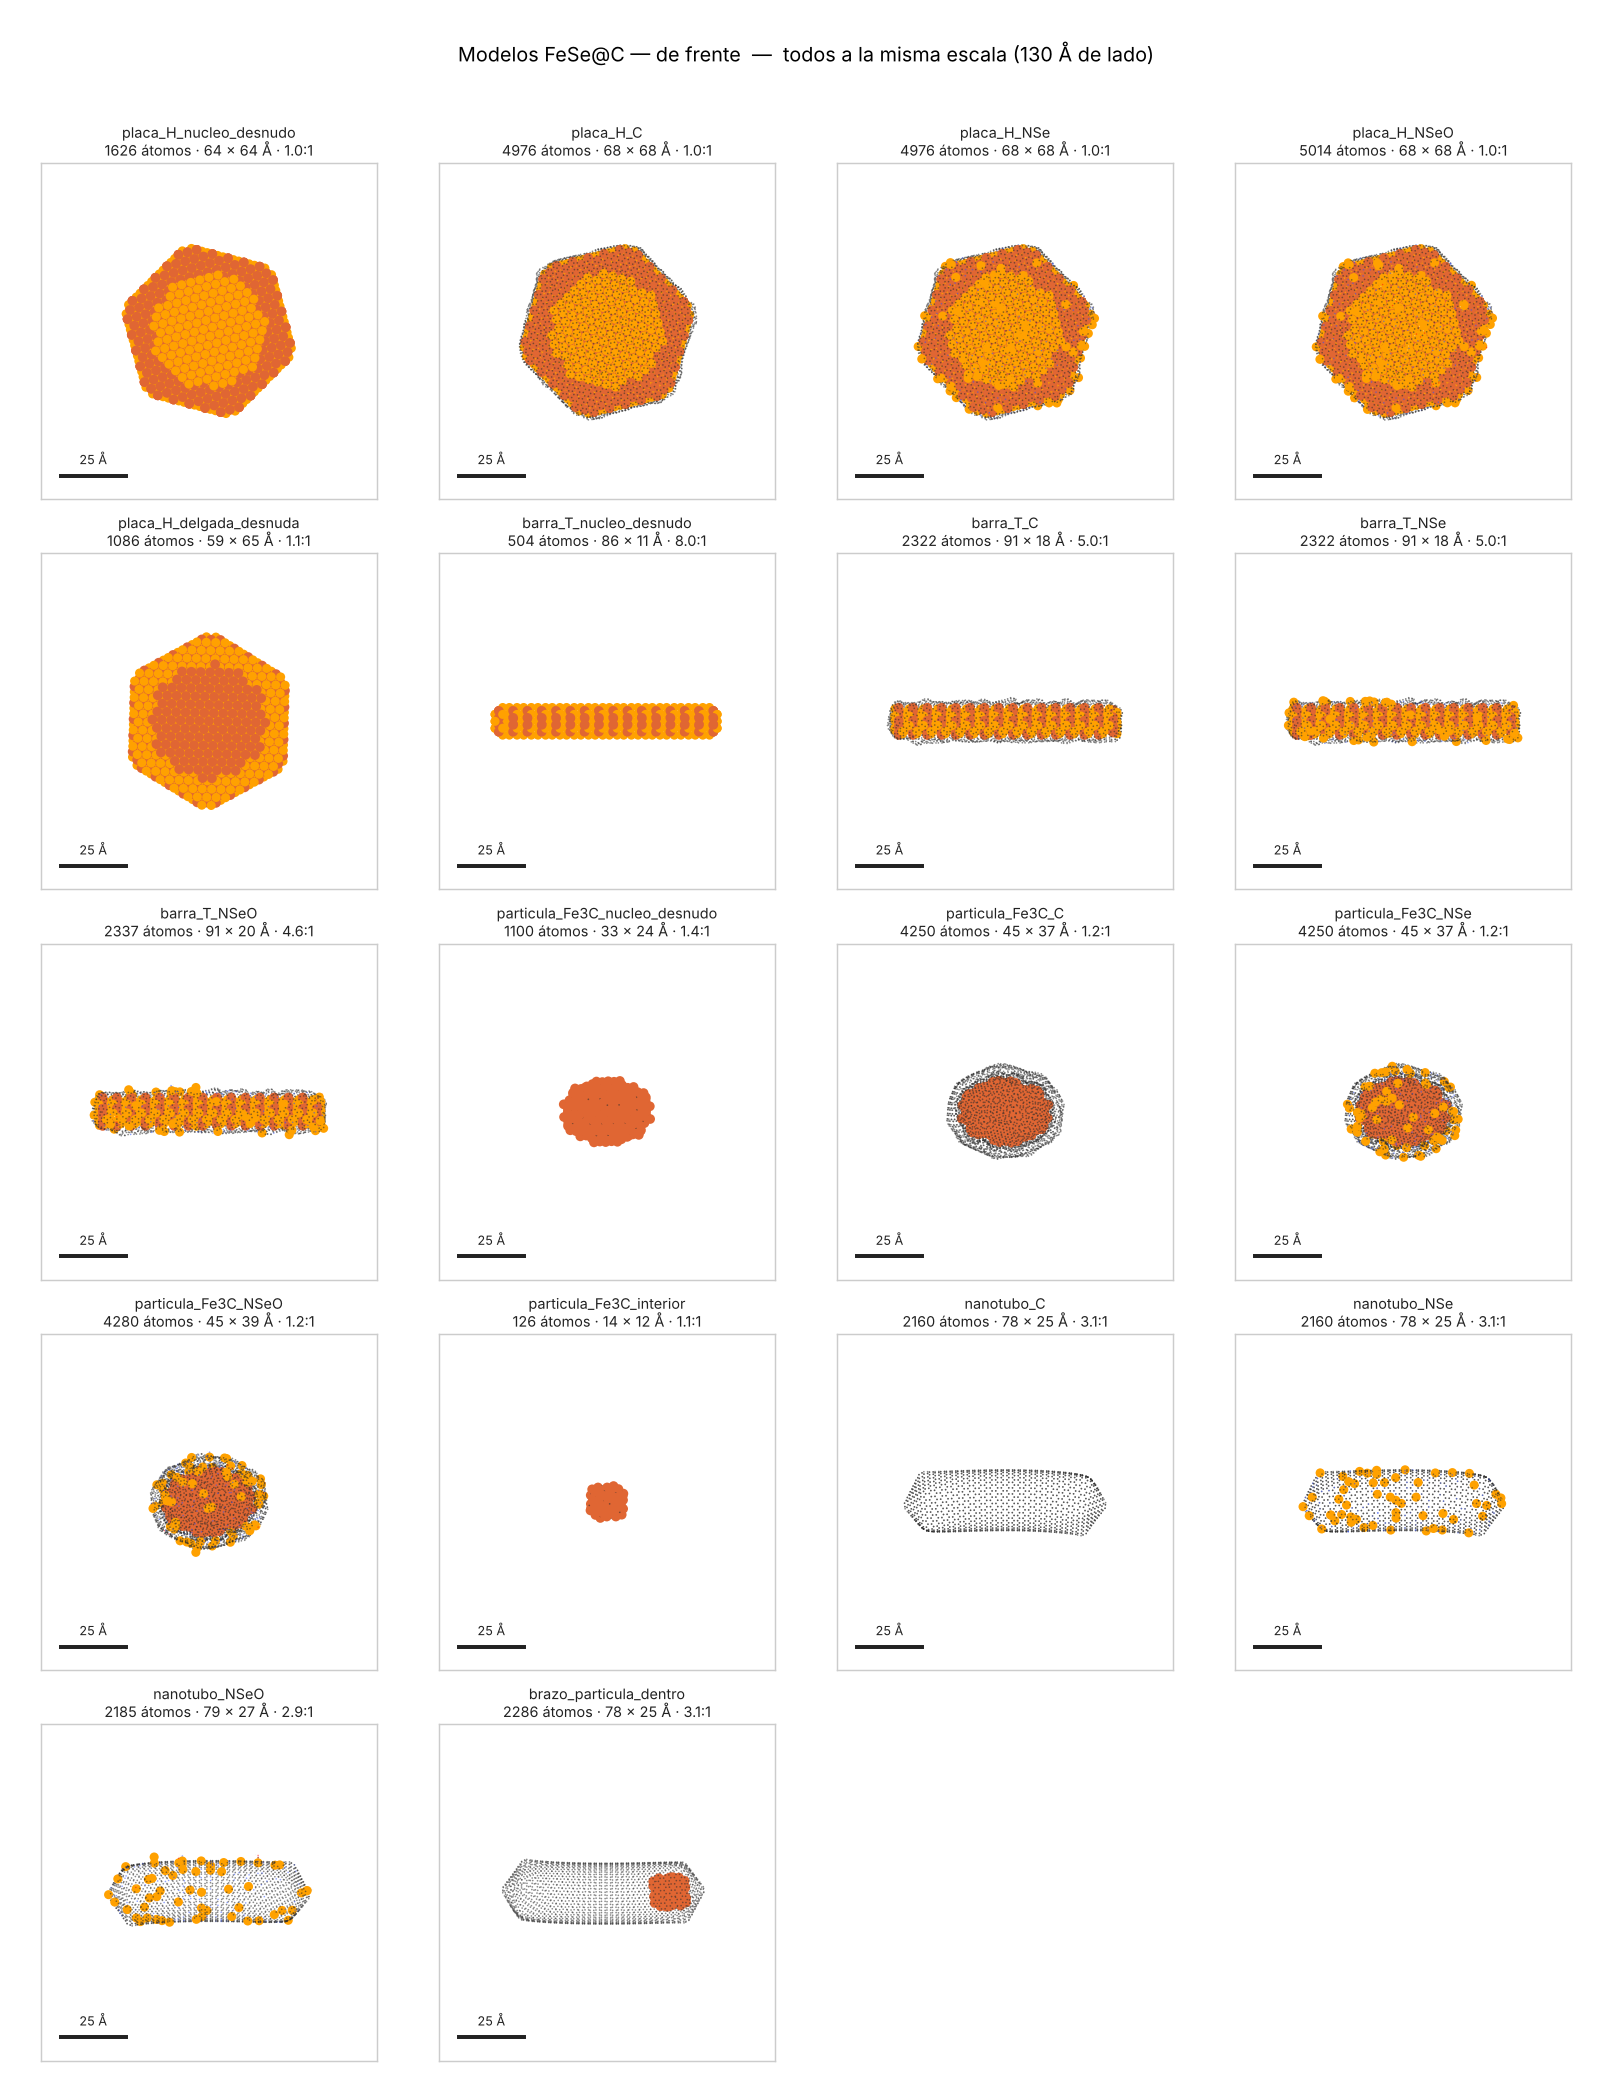
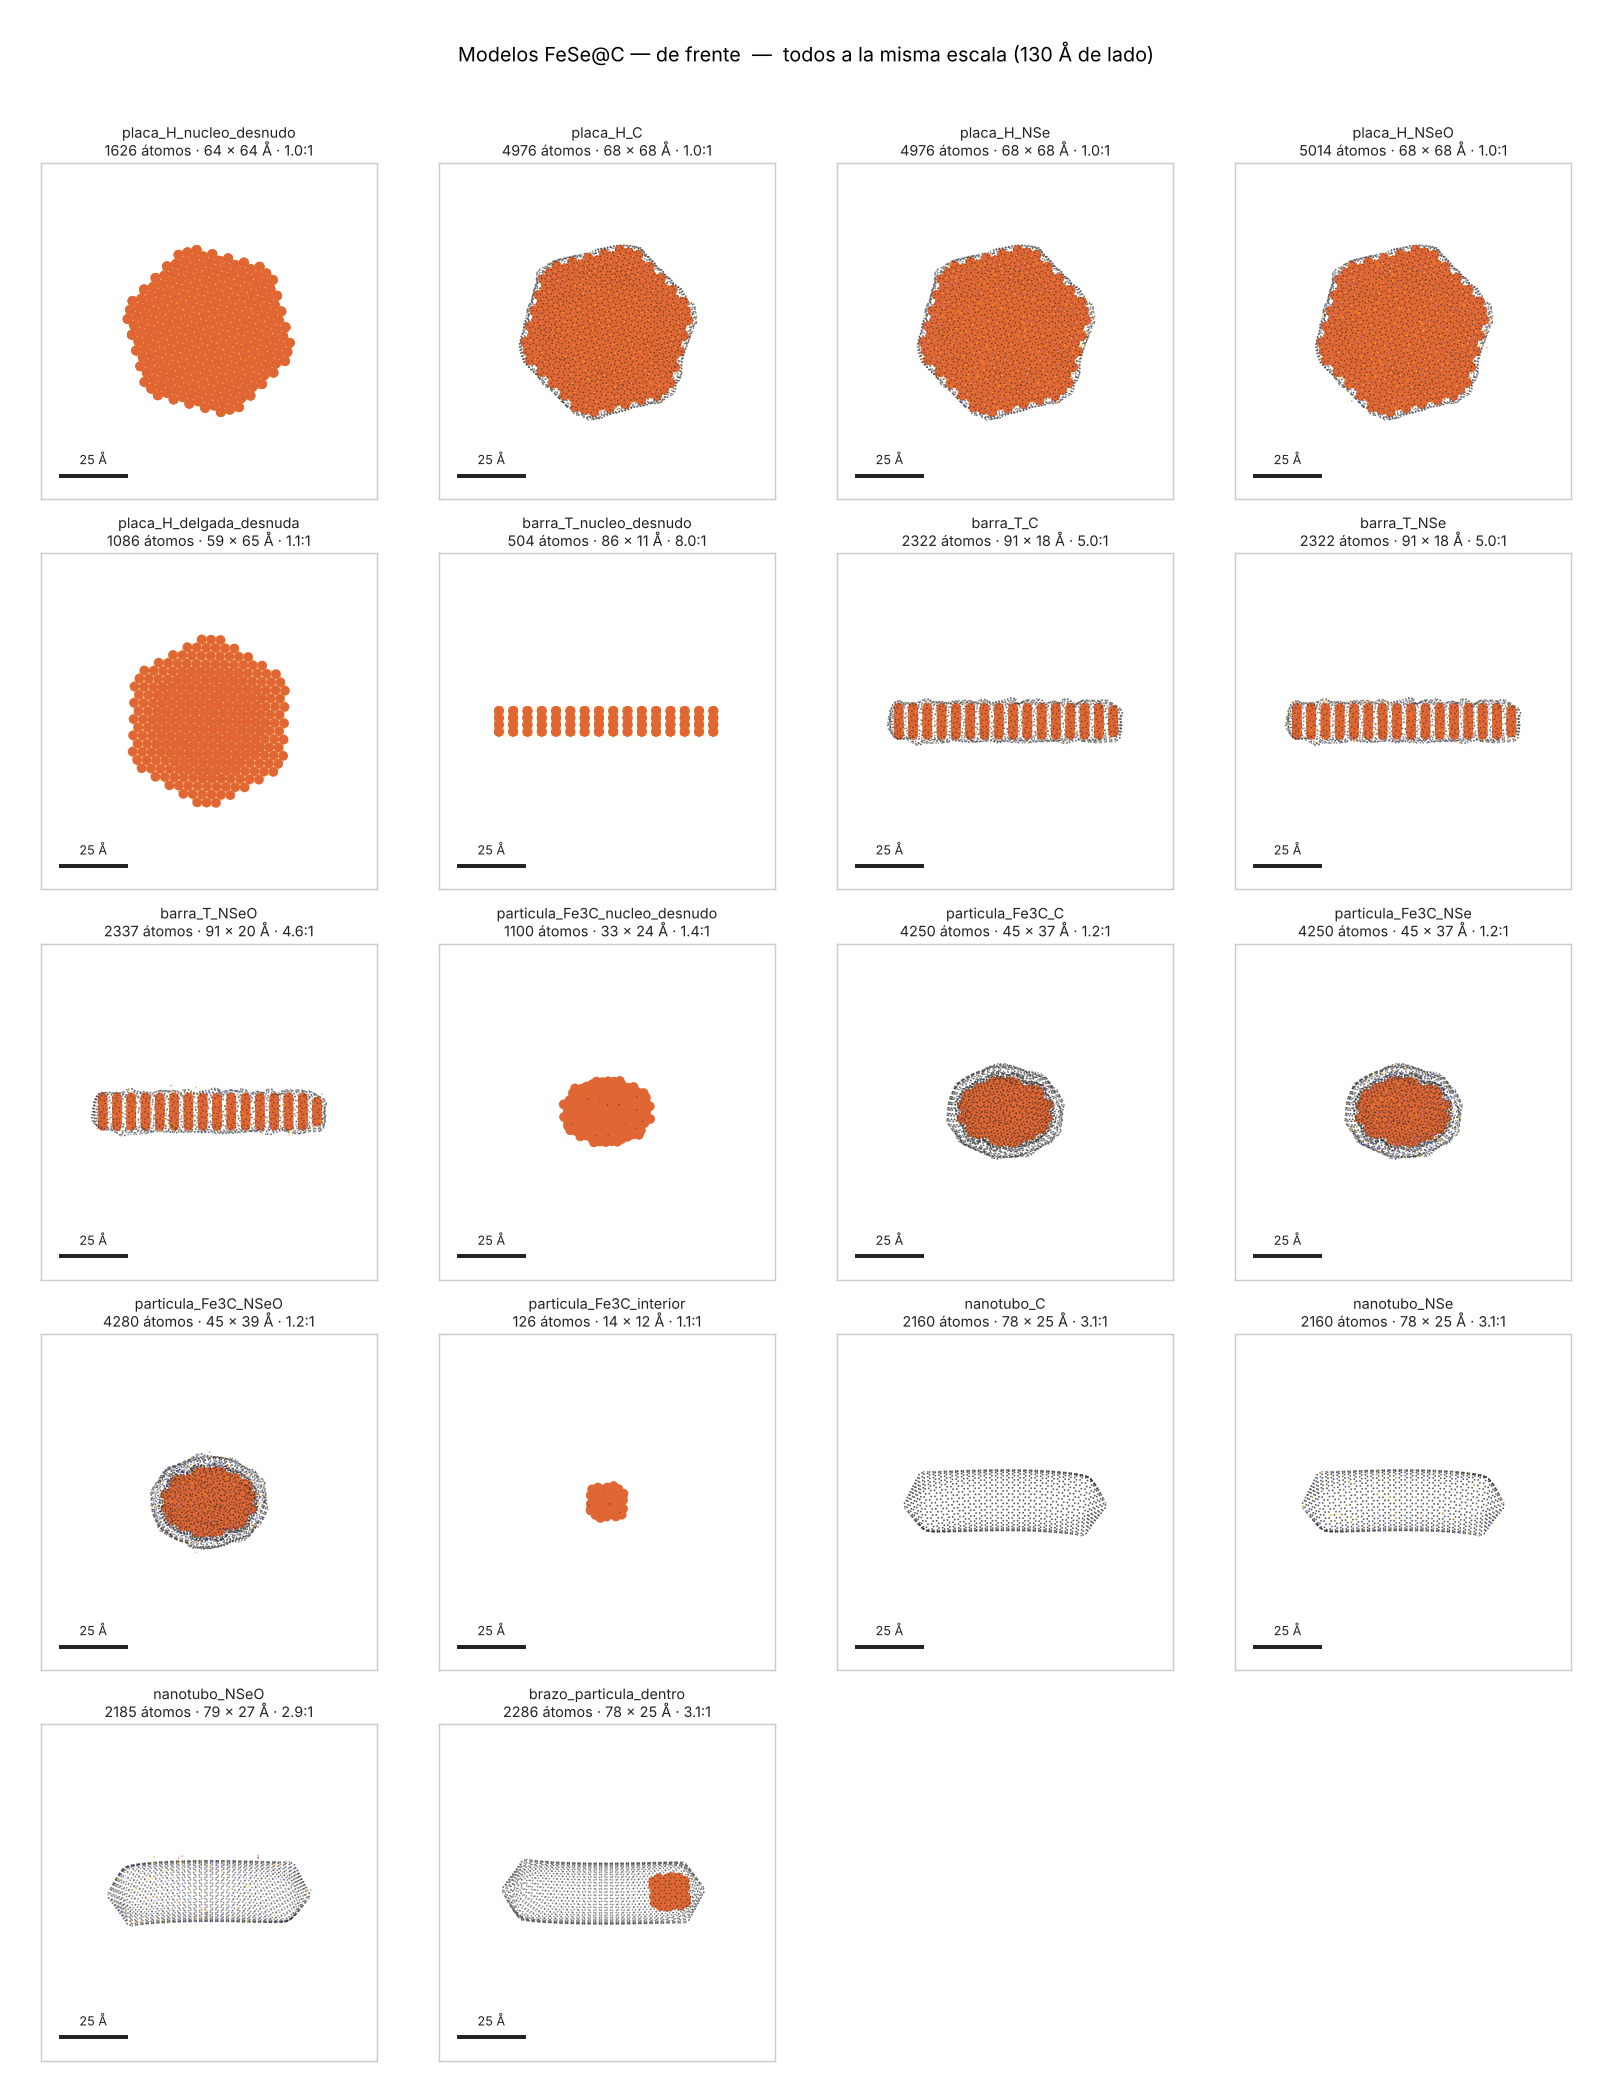
nanocarbon_lab: la coraza rota ya no pasa en silencio, y solo el Fe va en vdW
Las nueve corazas entregadas estaban ROTAS -enlaces de 1.59 a 1.72 A
contra el techo sp2 de 1.55- y nadie se entero: el veredicto solo vivia
en el JSON y las lineas por modelo pasaban de largo. construir.py las
recoge y termina gritandolas. Una puerta de calidad que nadie lee no es
una puerta.

Medido sobre gap x anchor x semilla x geometria: no hay combinacion que
cumpla las dos condiciones. Con la pared anclada los enlaces se pasan;
con la pared libre los enlaces salen en 1.50-1.53 y la coraza se mete
DENTRO del nucleo, a 0.15-0.28 A. Y no es cosa de haber adelgazado nada:
la geometria compacta de la primera version tambien da 1.62.

En las hojas de contacto solo el Fe se dibuja a radio de van der Waals.
El Se estaba ahi tambien, correcto para el del nucleo de FeSe y
equivocado para el sustituido en la coraza, que es un atomo en una red y
va en bolas y palos como sus vecinos.

Claude-Session: https://claude.ai/code/session_01VNWabjvnrazWdPZRwkAuN7

diff --git a/packages/nanocarbon_lab/modelos_SEM/construir.py b/packages/nanocarbon_lab/modelos_SEM/construir.py
@@ -264,6 +264,10 @@ def coated_particle(label: str, cif: Path, shape: str, params: dict,
           f"{time.time() - t0:.1f} s")
     for warning in coat_report.warnings:
         print(f"    aviso: {warning}")
+    for verdict in coat_report.verdict:
+        if "broken" in verdict:
+            BROKEN.append((label, verdict))
+            print(f"    *** CORAZA ROTA: {verdict}")
 
     # The bare core as well. Once the shell is on, the habit the whole
     # model is a hypothesis about is invisible -- the coating's envelope
@@ -439,6 +443,17 @@ def compositions(tube: Atoms, particle: Atoms, rows: list) -> None:
         print(f"    aviso: {warning}")
 
 
+#: Shells whose carbon-carbon bonds left the sp2 range, collected so
+#: the run ENDS by saying so.
+#:
+#: This exists because it already went wrong once and silently: the
+#: per-model lines scroll past, the verdict was only in the JSON, and
+#: nine models were written and handed over with walls carrying bonds
+#: of 1.59-1.72 A against the ceiling of 1.55. A quality gate that
+#: nobody reads is not a gate.
+BROKEN: list[tuple[str, str]] = []
+
+
 def main() -> None:
     rows: list = []
 
@@ -506,6 +521,14 @@ def main() -> None:
     (HERE / "modelos.json").write_text(
         json.dumps(rows, indent=2, ensure_ascii=False), encoding="utf-8")
     print(f"\n{len(rows)} modelos escritos en {XYZ} y {IMG}")
+    if BROKEN:
+        print("\n" + "=" * 68)
+        print(f"ATENCIÓN: {len(BROKEN)} coraza(s) fuera del rango sp². "
+              "Estos modelos NO son estructuras válidas:")
+        for label, verdict in BROKEN:
+            print(f"  - {label}: {verdict}")
+        print("Sirven como ilustración y no para relajar ni para DFT.")
+        print("=" * 68)
 
 
 if __name__ == "__main__":

diff --git a/packages/nanocarbon_lab/modelos_SEM/contacto.py b/packages/nanocarbon_lab/modelos_SEM/contacto.py
@@ -57,15 +57,22 @@ COLUMNS = 4
 MARKER_SCALE = 7.0
 
 #: Elements drawn at their van der Waals radius; everything else at the
-#: smaller display radius. The SAME convention as the Blender render
-#: (`--model auto --spacefill-element Se`): a metal or a chalcogenide
-#: core is a solid, and the carbon around it is open.
+#: smaller display radius.
 #:
-#: It is not cosmetic here either. Drawn at vdW the shell's carbon
-#: occludes the core completely and every coated model came out as one
-#: black blob -- which is exactly the comparison these sheets exist to
-#: make possible.
-SOLID = frozenset({"Fe", "Se"})
+#: **Iron only.** Selenium was in here too, which is right for the Se of
+#: an FeSe core -- it is part of a solid -- and wrong for the Se
+#: substituted into the carbon shell, which is one atom in a lattice and
+#: belongs in ball-and-stick like its neighbours. The same element in
+#: two places, and a per-element rule cannot tell them apart: drawn as
+#: spheres the shell's selenium reads as a crust of blobs on the
+#: graphite. Iron appears only in the cores here, so keying on it alone
+#: is unambiguous, and the FeSe core still reads as a solid because its
+#: iron does.
+#:
+#: Drawing the carbon at vdW instead would occlude the core completely
+#: and every coated model comes out as one black blob -- which is
+#: exactly the comparison these sheets exist to make possible.
+SOLID = frozenset({"Fe"})
 
 #: How far the shell's carbon is faded, so the core reads through it.
 SHELL_ALPHA = 0.55
